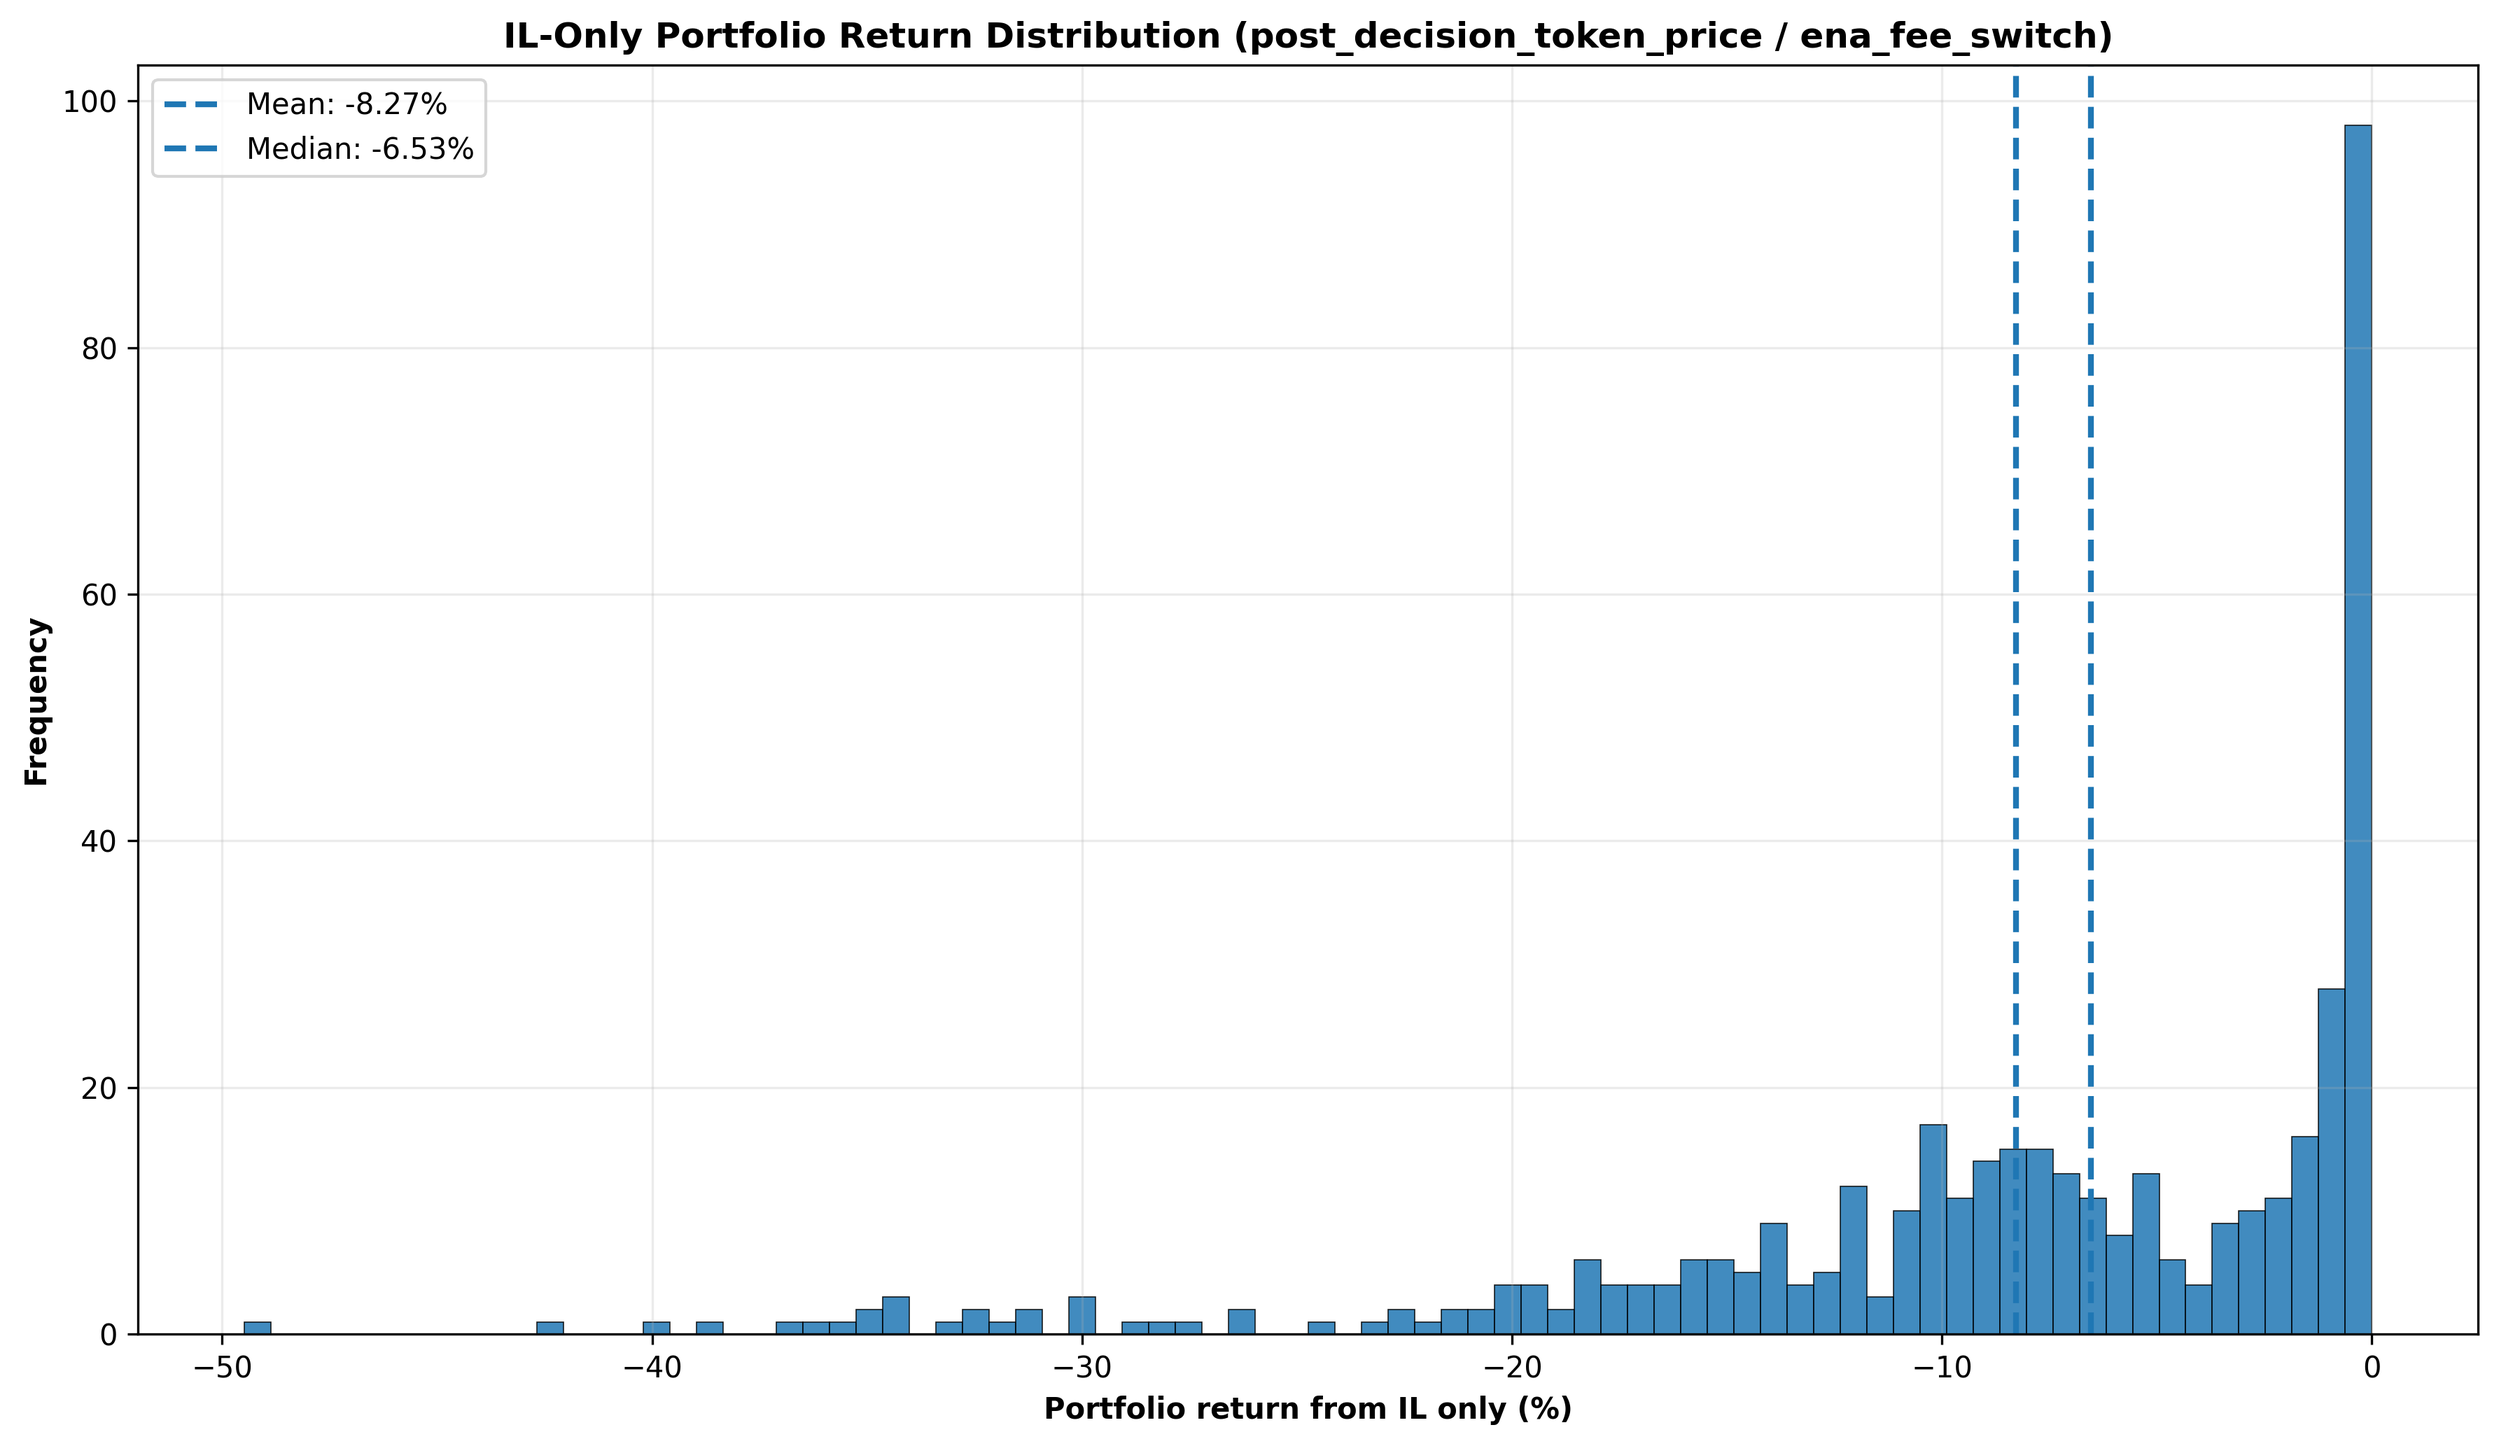
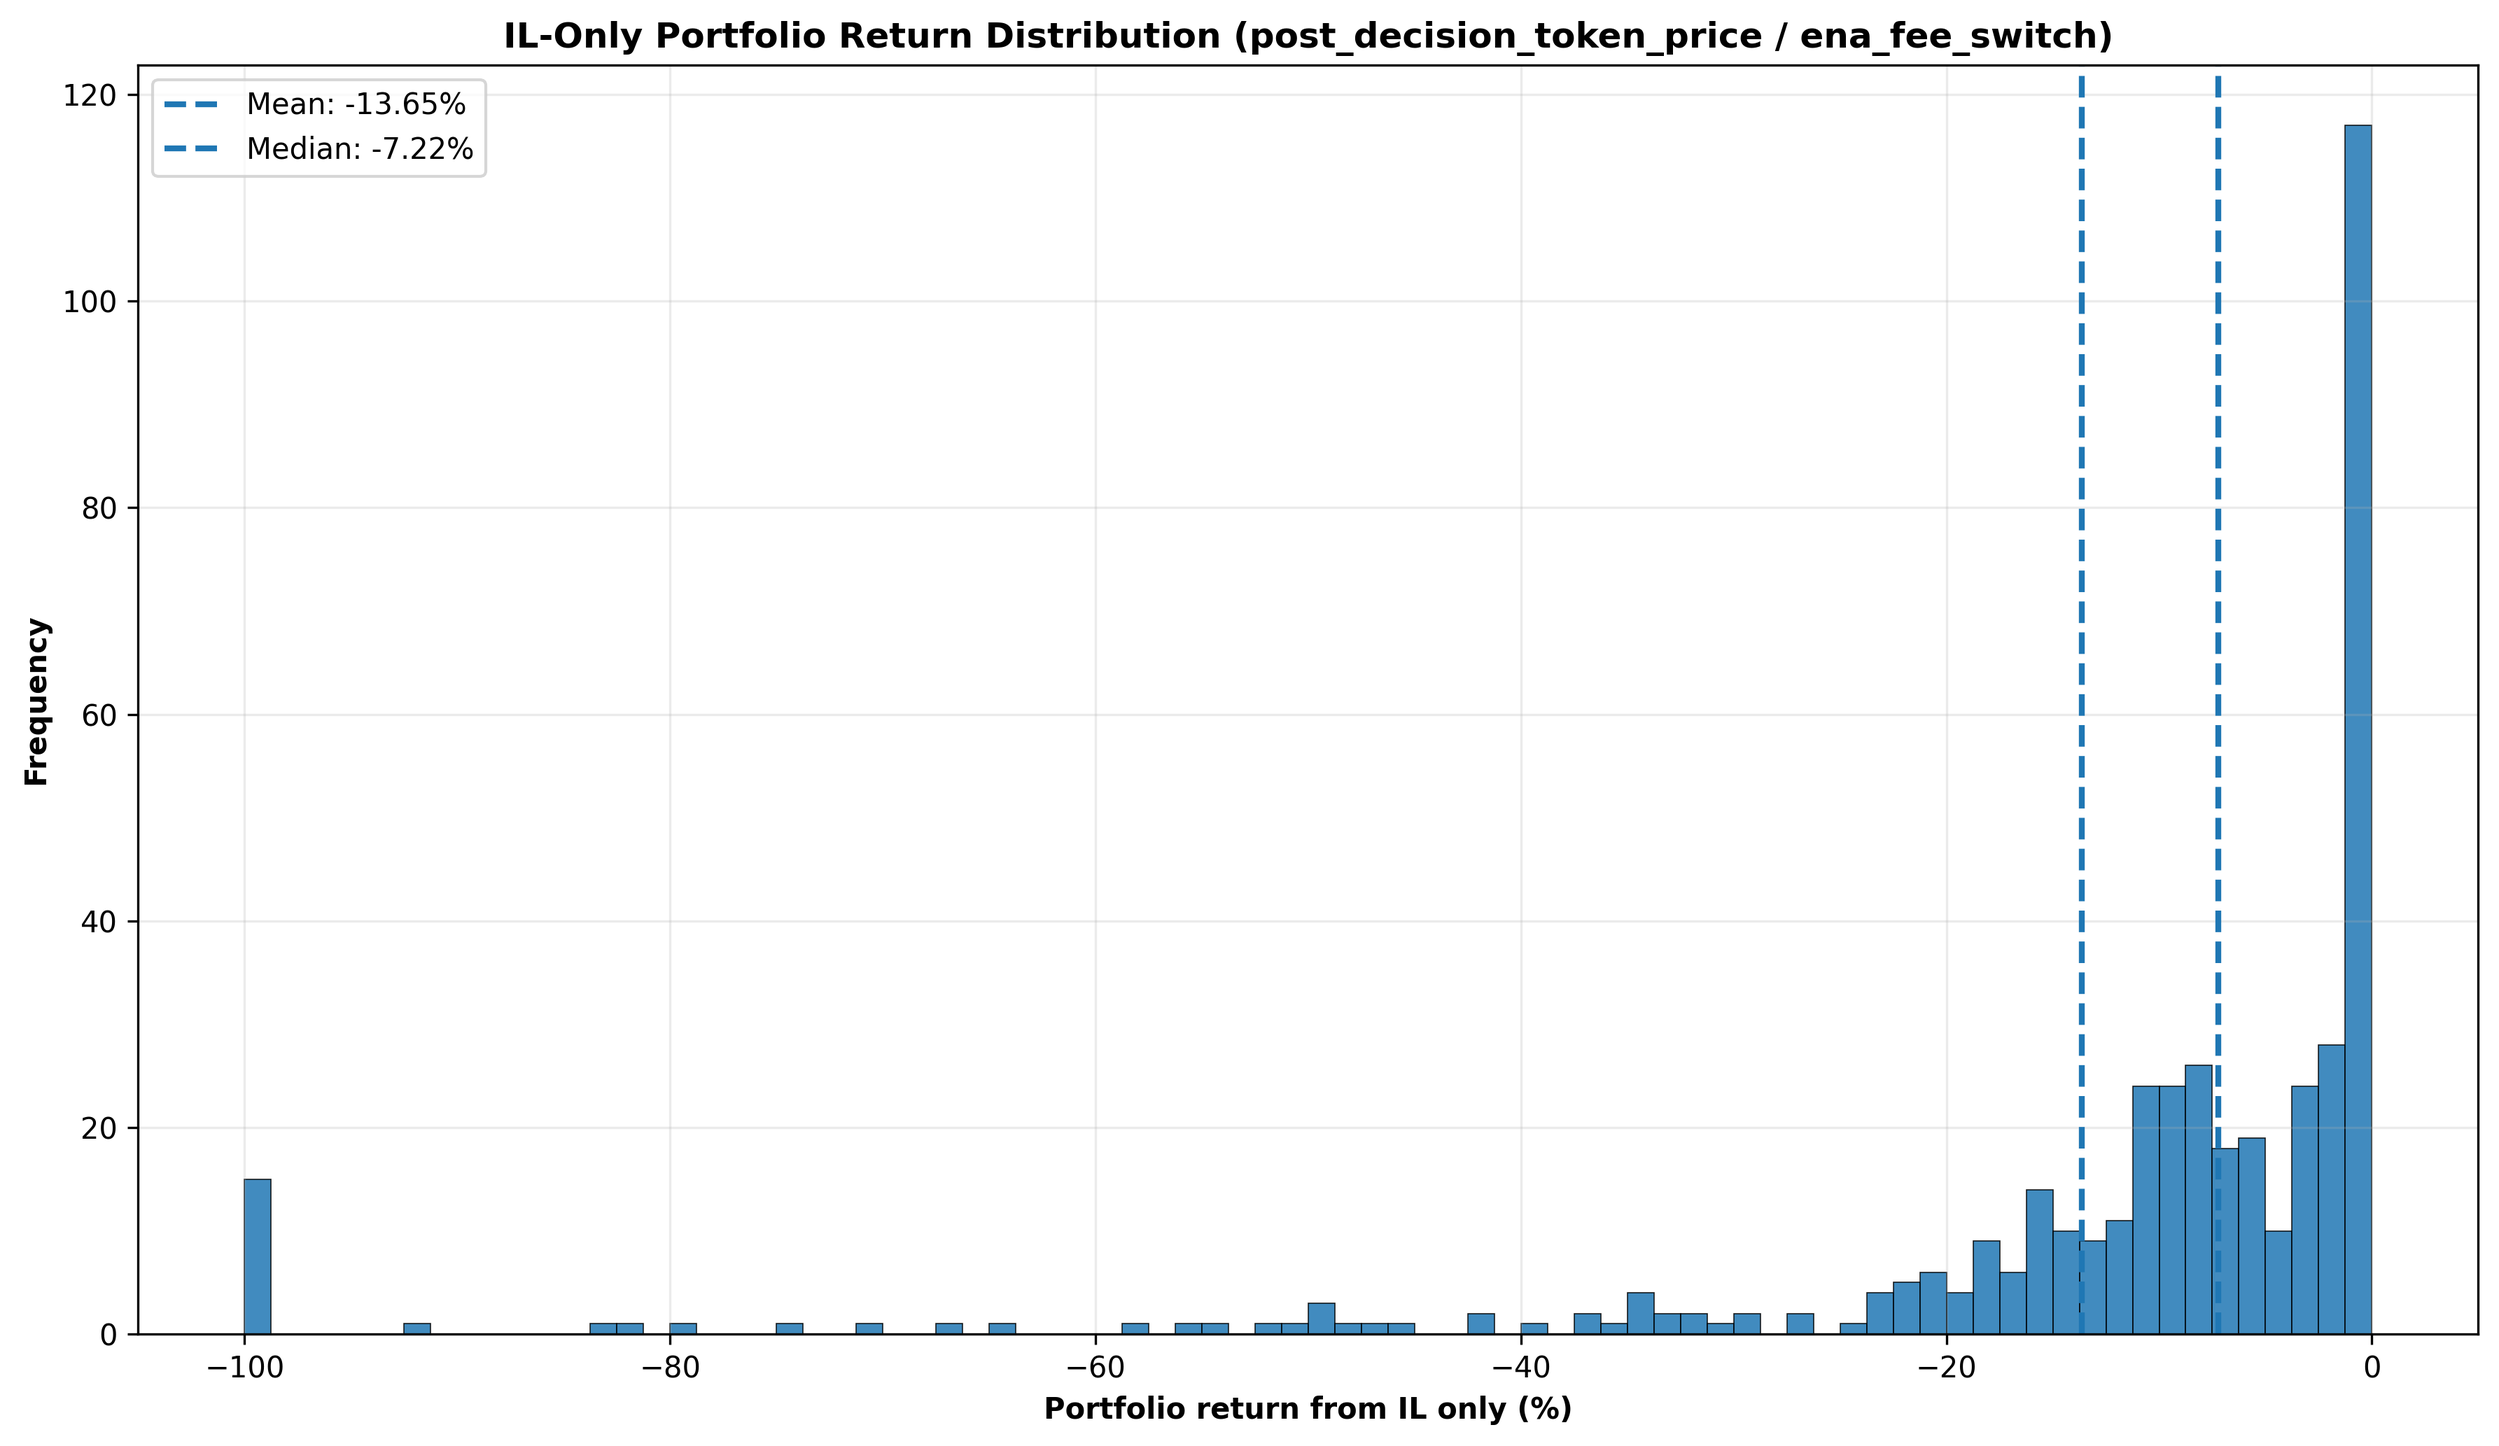
il_by_window.csv il_hist.png il_report.md il_timeseries.png

diff --git a/post_decision_token_price/ena_fee_switch/2025-09-17-to-2025-10-01/il_report.md b/post_decision_token_price/ena_fee_switch/2025-09-17-to-2025-10-01/il_report.md
@@ -47,7 +47,7 @@ We simulate starting at each historical window strictly earlier than the cutoff 
 We **exclude** very early windows until a minimum history (processing.min_historical_data_months) has elapsed to avoid unstable bounds.
 
 ## Important
-- **Mean** -8.27% and **median** -6.53% IL-only returns are shown below.
+- **Mean** -13.65% and **median** -7.22% IL-only returns are shown below.
 - These IL losses must be compared to incentive APY to calculate your net returns.
 
 ## Portfolio Performance
@@ -62,8 +62,8 @@ This time series shows how IL-only portfolio returns have varied across differen
 ### Distribution Summary (IL-only, %)
 
 - Count: **422**
-- Mean: **-8.27%**, Std: **8.90%**
-- Median: **-6.53%**  |  P25: **-11.98%**  |  P10: **-19.29%**  |  P75: **-0.75%**
+- Mean: **-13.65%**, Std: **21.82%**
+- Median: **-7.22%**  |  P25: **-14.53%**  |  P10: **-34.43%**  |  P75: **-1.00%**
 
 ## Calculating Your Net APY
 
@@ -84,13 +84,13 @@ Where:
 - **IL_Return**: Your expected impermanent loss return (as a decimal, typically negative)
 
 ### Example Calculation (Hypothetical Numbers Only):
-**Example calculation only**: Let's say Merkl shows **200% APY** (this is just an example - actual APY varies by market) and you experience the **median IL loss (-6.53%)**:
+**Example calculation only**: Let's say Merkl shows **200% APY** (this is just an example - actual APY varies by market) and you experience the **median IL loss (-7.22%)**:
 
 1. **Scale Merkl APY to period**: 200% × 0.038 = 7.7%
 2. **Convert to multiplier**: 1 + 7.7% = 1.077
-3. **Apply median IL loss**: 1.077 × (1 + -6.5%) = 1.077 × 0.935 = 1.006
-4. **Net return for 14 days**: 0.6%
-5. **Annualized (APY)**: (1.006)^26.1 - 1 = **18.2% APY**
+3. **Apply median IL loss**: 1.077 × (1 + -7.2%) = 1.077 × 0.928 = 0.999
+4. **Net return for 14 days**: -0.1%
+5. **Annualized (APY)**: (0.999)^26.1 - 1 = **-2.7% APY**
 
 **Steps to use this with your actual numbers:**
 1. Find your market's Merkl campaign and note the **actual APY** (not the 200% example)
